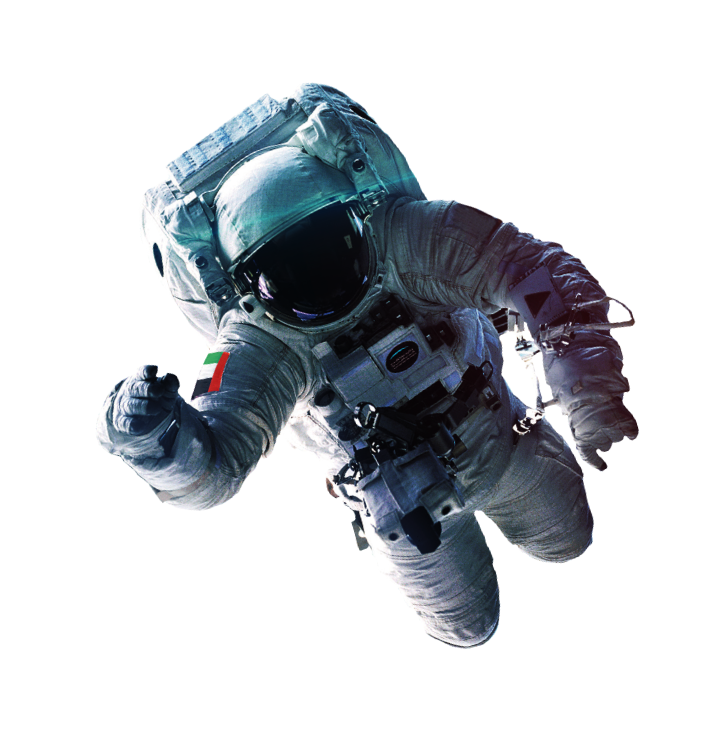
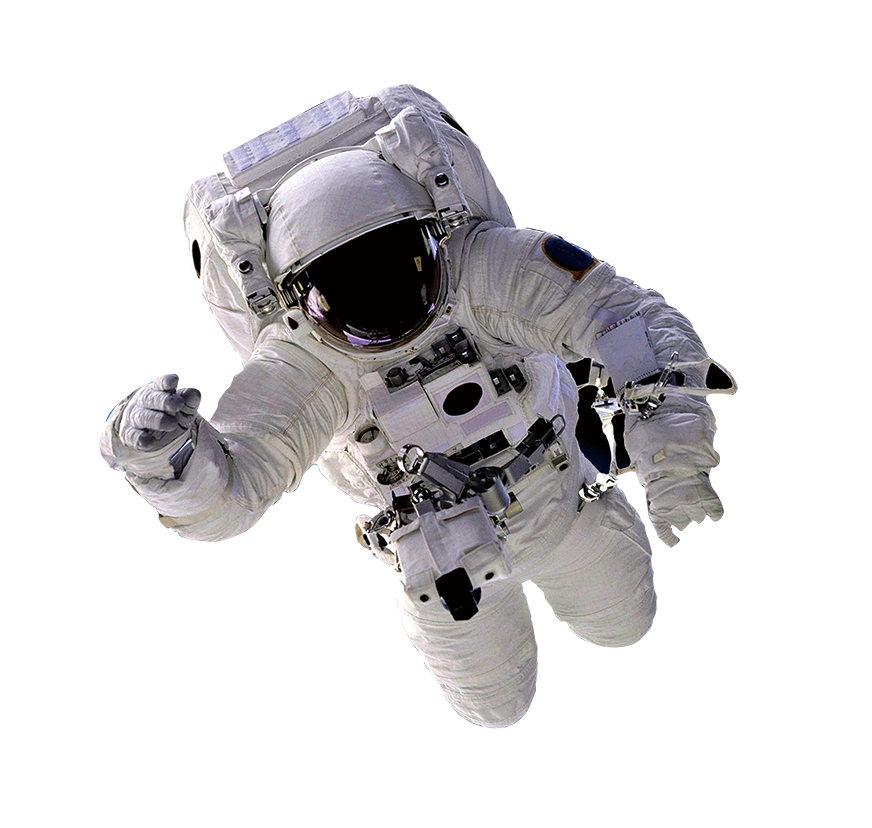
update: picture and header

diff --git a/src/pages/Home.tsx b/src/pages/Home.tsx
@@ -45,6 +45,7 @@ const Title = styled.h1`
   font-size: 5em;
   z-index: 2;
   color: white;
+  font-family: 'Righteous', sans-serif;
 `;
 
 const SubTitle = styled.h2`
@@ -65,15 +66,15 @@ function Home(): JSX.Element {
         rel="noreferrer"
         target="_blank"
       >
-        <img alt="poc" src="/logo.png" style={{ width: '20%', height: '20%' }} />
+        <img alt="poc" src="/poc_logo.png" style={{ width: '20%', height: '20%' }} />
       </LogoView>
       <Container style={{ flexDirection: 'row', width: '100%', height: '50%', marginTop: '5%', backgroundImage: 'url(/star.png)', backgroundAttachment: 'fixed', position: 'relative' }}>
         <LeftView>
-          <Title style={{ marginLeft: '10%', marginTop: '10%' }}>Test</Title>
+          <Title style={{ marginLeft: '10%', marginTop: '10%' }}>Caelus</Title>
           <SubTitle style={{ marginLeft: '10%' }}>Lorem ipsum dolor sit amet, consectetur adipiscing elit. Phasellus tincidunt fringilla augue, at pulvinar tellus egestas ac. Cras suscipit viverra tortor non interdum. Donec efficitur volutpat lacinia. </SubTitle>
         </LeftView>
         <RightView>
-          <Astro style={{ right: '10%' }}>
+          <Astro style={{ left: '10%' }}>
             <img alt="astronaute" src="/astro_1.png" style={{ width: '90%', height: '90%' }} />
           </Astro>
         </RightView>

diff --git a/src/components/Header/Header.tsx b/src/components/Header/Header.tsx
@@ -7,7 +7,7 @@ const Header = () : JSX.Element => {
 
   return (
     <div className="header">
-      <div className="logo">Caelus</div>
+      <img className="logo" alt="Caelus" src="/caelus_logo.png" style={{ width: '3%', height: '3%' }} />
       <div className="header-nav">
         <ul className="navbar">
           <Link to="/" style={{ textDecoration: 'none' }}>

diff --git a/public/index.html b/public/index.html
@@ -2,7 +2,7 @@
 <html lang="en">
   <head>
     <meta charset="utf-8" />
-    <link rel="icon" href="%PUBLIC_URL%/favicon.png" />
+    <link rel="icon" href="%PUBLIC_URL%/favicon.jpg" />
     <meta name="viewport" content="width=device-width, initial-scale=1" />
     <meta name="theme-color" content="#000000" />
     <meta
